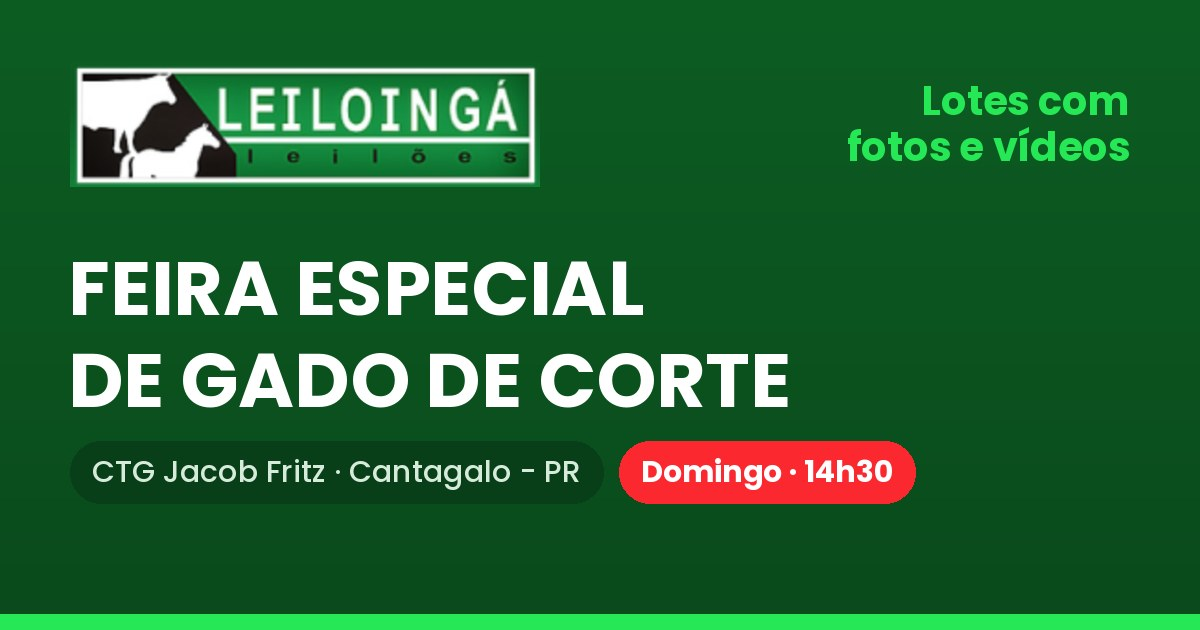
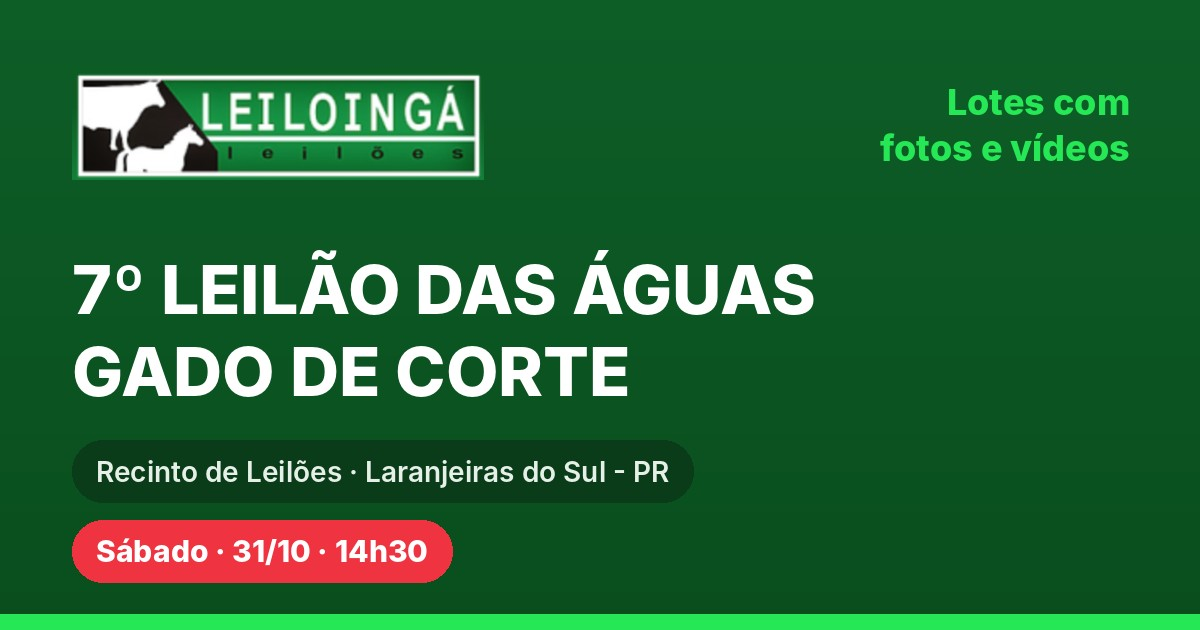
Proximo leilao: 7o Leilao das Aguas, Laranjeiras do Sul, 31/10
Claude-Session: https://claude.ai/code/session_01Huogrhmkc6NzxxtjwRJsiC

diff --git a/index.html b/index.html
@@ -1,1 +1,1 @@
-<!doctype html><html lang="pt-BR"><head><meta charset="utf-8"><meta name="viewport" content="width=device-width,initial-scale=1"><meta name="description" content="Veja os lotes com fotos e vídeos. CTG Jacob Fritz, Cantagalo - PR · Domingo, 14h30."><meta property="og:type" content="website"><meta property="og:site_name" content="Leiloingá Leilões"><meta property="og:title" content="Feira Especial de Gado de Corte · Leiloingá Leilões"><meta property="og:description" content="Veja os lotes com fotos e vídeos · CTG Jacob Fritz, Cantagalo - PR · Domingo, 14h30"><meta property="og:url" content="https://leiloingaleiloes.github.io/LOTES/"><meta property="og:image" content="https://leiloingaleiloes.github.io/LOTES/compartilhar-original.jpg"><meta property="og:image:width" content="1200"><meta property="og:image:height" content="630"><meta property="og:image:type" content="image/jpeg"><meta property="og:locale" content="pt_BR"><meta name="twitter:card" content="summary_large_image"><meta name="theme-color" content="#0D5D23"><title>Feira Especial de Gado de Corte · Leiloingá Leilões</title><link rel="preconnect" href="https://fonts.googleapis.com"><link rel="preconnect" href="https://fonts.gstatic.com" crossorigin><link href="https://fonts.googleapis.com/css2?family=Nunito+Sans:wght@400;600;700;800&family=Oswald:wght@400;600;700&display=swap" rel="stylesheet"><link rel="stylesheet" href="estilo.css"></head><body><header><div class="topo"><img src="logo-leiloinga.png" alt="Leiloingá Leilões"></div><div class="evt"><div class="nome">Feira Especial de Gado de Corte</div><div class="linha"><span class="">CTG Jacob Fritz</span><span class="">Cantagalo - PR</span><span class="hl">Domingo · 14h30</span><a class="mapa" href="https://www.google.com/maps/search/?api=1&query=CTG%20Jacob%20Fritz%2C%20Cantagalo%20-%20PR" target="_blank" rel="noopener">📍 Como chegar</a></div></div><p class="sub">Toque em um lote para ver as fotos e a descrição</p></header><main><a class="live" href="https://www.youtube.com/watch?v=UZ_RZeIioAE" target="_blank" rel="noopener"><i></i>Assista ao vivo clicando aqui</a><a class="zapsec" href="https://wa.me/?text=Feira%20Especial%20de%20Gado%20de%20Corte%20%E2%80%93%20Cantagalo%20-%20PR%20%C2%B7%20Domingo%20%C2%B7%2014h30%0ACat%C3%A1logo%20dos%20lotes%3A%20https%3A//leiloingaleiloes.github.io/LOTES/" target="_blank" rel="noopener"><svg viewBox="0 0 24 24" fill="none" stroke="currentColor" stroke-width="2" stroke-linecap="round" stroke-linejoin="round" aria-hidden="true"><path d="M21 11.5a8.4 8.4 0 0 1-12.4 7.4L3 20.5l1.7-5.4A8.4 8.4 0 1 1 21 11.5z"/><path d="M9 9.2c.3 2.3 2.5 4.5 4.8 4.8l1.2-1.3-1.9-1-0.8.7c-.8-.4-1.5-1.1-1.9-1.9l.7-.8-1-1.9z" fill="currentColor" stroke="none"/></svg>Compartilhar o catálogo no WhatsApp</a><div id="lotes"><div class="vazio">Carregando lotes…</div></div><a class="zap" href="https://wa.me/5542998737705?text=Ol%C3%A1%2C%20vim%20at%C3%A9%20aqui%20pelo%20cat%C3%A1logo%20do%20leil%C3%A3o%20de%20hoje" target="_blank" rel="noopener"><svg viewBox="0 0 24 24" fill="none" stroke="#fff" stroke-width="2" stroke-linecap="round" stroke-linejoin="round" aria-hidden="true"><path d="M21 11.5a8.4 8.4 0 0 1-12.4 7.4L3 20.5l1.7-5.4A8.4 8.4 0 1 1 21 11.5z"/><path d="M9 9.2c.3 2.3 2.5 4.5 4.8 4.8l1.2-1.3-1.9-1-0.8.7c-.8-.4-1.5-1.1-1.9-1.9l.7-.8-1-1.9z" fill="#fff" stroke="none"/></svg>Dúvidas? Fale conosco!</a></main><section class="apoio"><h2>Apoio</h2><div class="grade"><div class="logo"><img src="apoio-gp-whisky.png" alt="GP Blended Malt Whisky"></div><div class="logo"><img src="apoio-cafe-jandaia.png" alt="Café Jandaia"></div><div class="logo"><img src="apoio-cachaca-jamel.png" alt="Cachaça Jamel"></div></div></section><footer>Leiloingá Leilões</footer><script src="lotes.js"></script><script>montarIndice(document.getElementById("lotes"))</script></body></html>
+<!doctype html><html lang="pt-BR"><head><meta charset="utf-8"><meta name="viewport" content="width=device-width,initial-scale=1"><meta name="description" content="Veja os lotes com fotos e vídeos. Recinto de Leilões, Laranjeiras do Sul - PR · Sábado, 31/10, 14h30."><meta property="og:type" content="website"><meta property="og:site_name" content="Leiloingá Leilões"><meta property="og:title" content="7º Leilão das Águas – Gado de Corte · Leiloingá Leilões"><meta property="og:description" content="Veja os lotes com fotos e vídeos · Recinto de Leilões, Laranjeiras do Sul - PR · Sábado, 31/10, 14h30"><meta property="og:url" content="https://leiloingaleiloes.github.io/LOTES/"><meta property="og:image" content="https://leiloingaleiloes.github.io/LOTES/compartilhar-original.jpg?v=2026-10-31"><meta property="og:image:width" content="1200"><meta property="og:image:height" content="630"><meta property="og:image:type" content="image/jpeg"><meta property="og:locale" content="pt_BR"><meta name="twitter:card" content="summary_large_image"><meta name="theme-color" content="#0D5D23"><title>7º Leilão das Águas – Gado de Corte · Leiloingá Leilões</title><link rel="preconnect" href="https://fonts.googleapis.com"><link rel="preconnect" href="https://fonts.gstatic.com" crossorigin><link href="https://fonts.googleapis.com/css2?family=Nunito+Sans:wght@400;600;700;800&family=Oswald:wght@400;600;700&display=swap" rel="stylesheet"><link rel="stylesheet" href="estilo.css"></head><body><header><div class="topo"><img src="logo-leiloinga.png" alt="Leiloingá Leilões"></div><div class="evt"><div class="nome">7º Leilão das Águas – Gado de Corte</div><div class="linha"><span class="">Recinto de Leilões</span><span class="">Laranjeiras do Sul - PR</span><span class="hl">Sábado, 31/10 · 14h30</span><a class="mapa" href="https://www.google.com/maps/search/?api=1&query=Recinto%20de%20Leil%C3%B5es%20Leiloing%C3%A1%2C%20Laranjeiras%20do%20Sul%20-%20PR" target="_blank" rel="noopener">📍 Como chegar</a></div></div><p class="sub">Toque em um lote para ver as fotos e a descrição</p></header><main><a class="live" href="https://www.youtube.com/channel/UCO1C4K1sw8uBCpYDjGH2scg/live" target="_blank" rel="noopener"><i></i>Assista ao vivo clicando aqui</a><a class="zapsec" href="https://wa.me/?text=7%C2%BA%20Leil%C3%A3o%20das%20%C3%81guas%20%E2%80%93%20Gado%20de%20Corte%20%E2%80%93%20Laranjeiras%20do%20Sul%20-%20PR%20%C2%B7%20S%C3%A1bado%2C%2031%2F10%20%C2%B7%2014h30%0ACat%C3%A1logo%20dos%20lotes%3A%20https%3A//leiloingaleiloes.github.io/LOTES/" target="_blank" rel="noopener"><svg viewBox="0 0 24 24" fill="none" stroke="currentColor" stroke-width="2" stroke-linecap="round" stroke-linejoin="round" aria-hidden="true"><path d="M21 11.5a8.4 8.4 0 0 1-12.4 7.4L3 20.5l1.7-5.4A8.4 8.4 0 1 1 21 11.5z"/><path d="M9 9.2c.3 2.3 2.5 4.5 4.8 4.8l1.2-1.3-1.9-1-0.8.7c-.8-.4-1.5-1.1-1.9-1.9l.7-.8-1-1.9z" fill="currentColor" stroke="none"/></svg>Compartilhar o catálogo no WhatsApp</a><div id="lotes"><div class="vazio">Carregando lotes…</div></div><a class="zap" href="https://wa.me/5542998737705?text=Ol%C3%A1%2C%20vim%20at%C3%A9%20aqui%20pelo%20cat%C3%A1logo%20do%20leil%C3%A3o" target="_blank" rel="noopener"><svg viewBox="0 0 24 24" fill="none" stroke="#fff" stroke-width="2" stroke-linecap="round" stroke-linejoin="round" aria-hidden="true"><path d="M21 11.5a8.4 8.4 0 0 1-12.4 7.4L3 20.5l1.7-5.4A8.4 8.4 0 1 1 21 11.5z"/><path d="M9 9.2c.3 2.3 2.5 4.5 4.8 4.8l1.2-1.3-1.9-1-0.8.7c-.8-.4-1.5-1.1-1.9-1.9l.7-.8-1-1.9z" fill="#fff" stroke="none"/></svg>Dúvidas? Fale conosco!</a></main><section class="apoio"><h2>Apoio</h2><div class="grade"><div class="logo"><img src="apoio-gp-whisky.png" alt="GP Blended Malt Whisky"></div><div class="logo"><img src="apoio-cafe-jandaia.png" alt="Café Jandaia"></div><div class="logo"><img src="apoio-cachaca-jamel.png" alt="Cachaça Jamel"></div></div></section><footer>Leiloingá Leilões</footer><script src="lotes.js"></script><script>montarIndice(document.getElementById("lotes"))</script></body></html>

diff --git a/lote.html b/lote.html
@@ -1,1 +1,1 @@
-<!doctype html><html lang="pt-BR"><head><meta charset="utf-8"><meta name="viewport" content="width=device-width,initial-scale=1"><meta name="description" content="Veja os lotes com fotos e vídeos. CTG Jacob Fritz, Cantagalo - PR · Domingo, 14h30."><meta property="og:type" content="website"><meta property="og:site_name" content="Leiloingá Leilões"><meta property="og:title" content="Lotes · Feira Especial de Gado de Corte"><meta property="og:description" content="Veja os lotes com fotos e vídeos · CTG Jacob Fritz, Cantagalo - PR · Domingo, 14h30"><meta property="og:url" content="https://leiloingaleiloes.github.io/LOTES/"><meta property="og:image" content="https://leiloingaleiloes.github.io/LOTES/compartilhar-original.jpg"><meta property="og:image:width" content="1200"><meta property="og:image:height" content="630"><meta property="og:image:type" content="image/jpeg"><meta property="og:locale" content="pt_BR"><meta name="twitter:card" content="summary_large_image"><meta name="theme-color" content="#0D5D23"><title>Lote</title><link rel="preconnect" href="https://fonts.googleapis.com"><link rel="preconnect" href="https://fonts.gstatic.com" crossorigin><link href="https://fonts.googleapis.com/css2?family=Nunito+Sans:wght@400;600;700;800&family=Oswald:wght@400;600;700&display=swap" rel="stylesheet"><link rel="stylesheet" href="estilo.css"></head><body><header><div class="topo"><img src="logo-leiloinga.png" alt="Leiloingá Leilões"><h1 id="tit">Lote</h1></div></header><main id="lote"><div class="vazio">Carregando…</div></main><section class="apoio"><h2>Apoio</h2><div class="grade"><div class="logo"><img src="apoio-gp-whisky.png" alt="GP Blended Malt Whisky"></div><div class="logo"><img src="apoio-cafe-jandaia.png" alt="Café Jandaia"></div><div class="logo"><img src="apoio-cachaca-jamel.png" alt="Cachaça Jamel"></div></div></section><footer>Leiloingá Leilões</footer><script src="lotes.js"></script><script>montarLote(document.getElementById("lote"),document.getElementById("tit"))</script></body></html>
+<!doctype html><html lang="pt-BR"><head><meta charset="utf-8"><meta name="viewport" content="width=device-width,initial-scale=1"><meta name="description" content="Veja os lotes com fotos e vídeos. Recinto de Leilões, Laranjeiras do Sul - PR · Sábado, 31/10, 14h30."><meta property="og:type" content="website"><meta property="og:site_name" content="Leiloingá Leilões"><meta property="og:title" content="Lotes · 7º Leilão das Águas – Gado de Corte"><meta property="og:description" content="Veja os lotes com fotos e vídeos · Recinto de Leilões, Laranjeiras do Sul - PR · Sábado, 31/10, 14h30"><meta property="og:url" content="https://leiloingaleiloes.github.io/LOTES/"><meta property="og:image" content="https://leiloingaleiloes.github.io/LOTES/compartilhar-original.jpg"><meta property="og:image:width" content="1200"><meta property="og:image:height" content="630"><meta property="og:image:type" content="image/jpeg"><meta property="og:locale" content="pt_BR"><meta name="twitter:card" content="summary_large_image"><meta name="theme-color" content="#0D5D23"><title>Lote</title><link rel="preconnect" href="https://fonts.googleapis.com"><link rel="preconnect" href="https://fonts.gstatic.com" crossorigin><link href="https://fonts.googleapis.com/css2?family=Nunito+Sans:wght@400;600;700;800&family=Oswald:wght@400;600;700&display=swap" rel="stylesheet"><link rel="stylesheet" href="estilo.css"></head><body><header><div class="topo"><img src="logo-leiloinga.png" alt="Leiloingá Leilões"><h1 id="tit">Lote</h1></div></header><main id="lote"><div class="vazio">Carregando…</div></main><section class="apoio"><h2>Apoio</h2><div class="grade"><div class="logo"><img src="apoio-gp-whisky.png" alt="GP Blended Malt Whisky"></div><div class="logo"><img src="apoio-cafe-jandaia.png" alt="Café Jandaia"></div><div class="logo"><img src="apoio-cachaca-jamel.png" alt="Cachaça Jamel"></div></div></section><footer>Leiloingá Leilões</footer><script src="lotes.js"></script><script>montarLote(document.getElementById("lote"),document.getElementById("tit"))</script></body></html>

diff --git a/lotes.js b/lotes.js
@@ -76,7 +76,7 @@
   }
 
   var SITE = "https://leiloingaleiloes.github.io/LOTES/";
-  var EVENTO = "Feira Especial de Gado de Corte";
+  var EVENTO = "7º Leilão das Águas – Gado de Corte";
 
   function compartilhar(texto, rotulo) {
     return '<a class="zapsec" href="https://wa.me/?text=' + encodeURIComponent(texto) +
